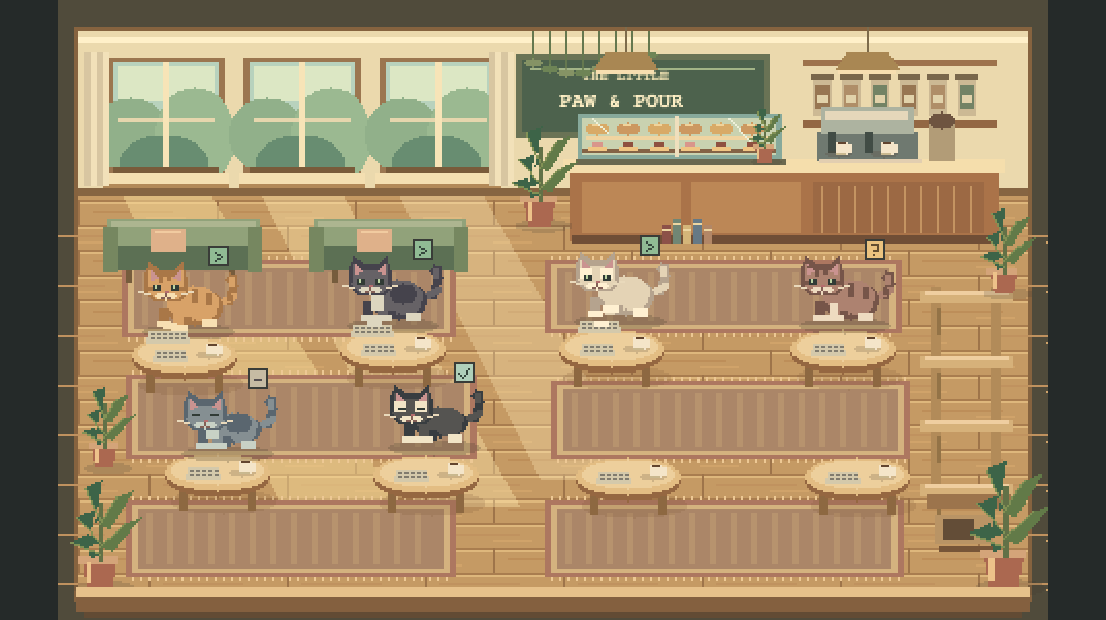
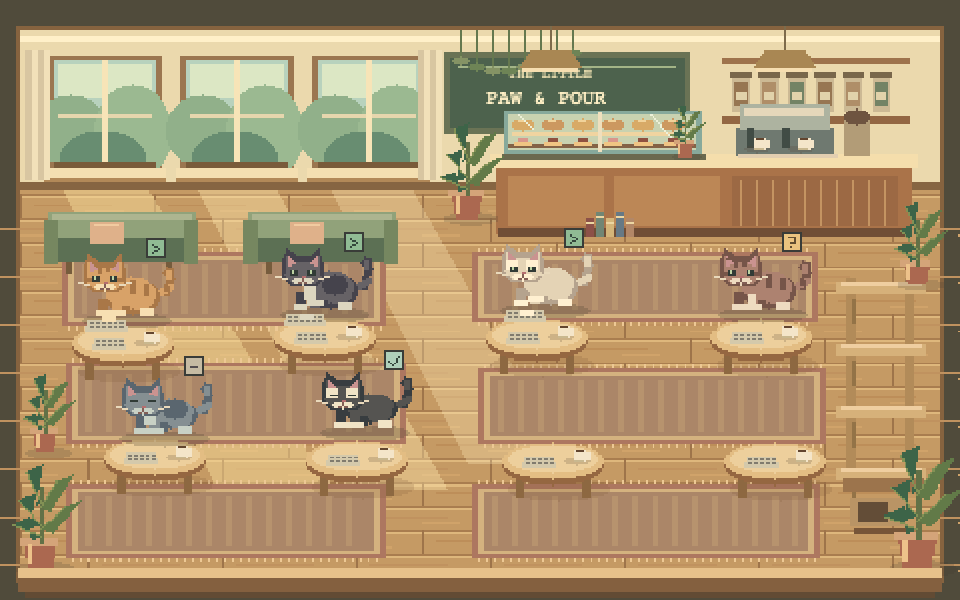
docs: refresh repo graphics with Bridge and Engineering feature

diff --git a/README.md b/README.md
@@ -2,9 +2,11 @@
 
 **Pixel-art places for your agents to inhabit.** A Hermes Desktop plugin with live-selectable realms, a shared agent-state engine, and a clean display for everyday use.
 
-![Office Space, Kitten Café and the TNG-inspired bridge, using demonstration agents](docs/images/starter-realms.png)
+![Office Space, Kitten Café and a split Bridge–Engineering feature graphic, using demonstration agents](docs/images/starter-realms.png)
 
 **Public alpha · v0.2.0** · **[Browse & download realms](realms/README.md)** · [Get the plugin](https://github.com/cygnostik/pd-pixel-worlds/releases) · [Create a realm](docs/realms.md) · [Submit a realm](https://github.com/cygnostik/pd-pixel-worlds/issues/new?template=realm-submission.yml)
+
+[![Checks](https://github.com/cygnostik/pd-pixel-worlds/actions/workflows/ci.yml/badge.svg)](https://github.com/cygnostik/pd-pixel-worlds/actions/workflows/ci.yml) · [Install](#install-in-hermes-desktop) · [Use it](#use-it) · [Create a realm](#create-and-share-realms) · [MIT](LICENSE)
 
 ## Three starter realms
 
@@ -17,6 +19,8 @@ neutral styling as the other world controls. They do not run commands or route
 real jobs. The published v0.2.0 download
 does not include this candidate yet.
 
+*Screenshots show the current main-branch build with demonstration agents, not live sessions.*
+
 | Realm | What lives there |
 | --- | --- |
 | **Office Space** | CRTs, cubicles, coffee and a printer yard. The printer teamwork scene follows actual parent-linked delegation. |
@@ -24,6 +28,17 @@ does not include this candidate yet.
 | **Star Trek: TNG** | A fan-inspired Enterprise-D bridge: luminous dome, aft stations, three command chairs, sweeping rail and two foreground helm consoles. |
 
 The starter artwork is drawn procedurally. Switching realms preserves identities, selection and attention reminders. Demo agents are explicitly labelled and never become live activity.
+
+### Two rooms. One crew.
+
+![Added: Main Engineering! Bridge on the left, Engineering on the right, joined by a blue transporter beam — promotional composite](docs/images/tng-ship-feature.png)
+
+The current TNG world connects the Bridge and Main Engineering. Crew placement,
+room counts and attention indicators stay shared when you switch views.
+
+| Bridge | Main Engineering |
+| --- | --- |
+| ![Current bridge with compact scene controls and demonstration crew](docs/images/tng-bridge.png) | ![Current Main Engineering with compact scene controls and demonstration crew](docs/images/tng-engineering.png) |
 
 ## Add a realm
 
@@ -70,7 +85,7 @@ profile argument. [Installation and compatibility details →](docs/install.md)
 - **Display mode** gives the realm the pane without the dashboard. Reveal the small controls with hover or keyboard focus; use **Exit display** or **Escape** to return.
 - Select an agent for details and native session navigation. Search includes session identifiers.
 - Pause animation or enable reduced motion. Scenes stop animating while hidden.
-- The roster keeps all observed agents. Office/café and imports use twelve-person scene pages; the candidate TNG ship has seven bridge, eight Engineering and two office stations, with separate elsewhere/transit/off-stage counts.
+- The roster keeps all observed agents. Office/café and imports use twelve-person scene pages; the candidate TNG ship has seven Bridge and eight Engineering stations, with separate elsewhere/transit/off-stage counts.
 
 ![PW Agents showing the TNG-inspired bridge with an explicitly illustrative crew](docs/images/pw-agents.png)
 
@@ -107,6 +122,17 @@ The build needs no Hermes checkout, private packages, credentials or local sourc
 aliases. The installed `plugin.js` imports React and `@hermes/plugin-sdk` from the
 host. The standalone preview bundles React with a small local SDK fixture.
 Browser tests start and stop their own loopback servers.
+
+To refresh the repository graphics from the current build:
+
+```sh
+npm run build
+node scripts/capture-repo-media.mjs
+```
+
+The capture uses the isolated browser preview and its demonstration crew. It
+refreshes the scene screenshots, README hero, catalog banner and social card
+without connecting to Hermes or reading live sessions. [Media details →](docs/media.md)
 
 ## Create and share realms
 

diff --git a/docs/media.md b/docs/media.md
@@ -1,0 +1,60 @@
+# Repository graphics
+
+Regenerate the graphics from the current application:
+
+```sh
+npm run build
+node scripts/capture-repo-media.mjs
+```
+
+The capture runs the isolated browser preview with reduced motion and the
+product's built-in demonstration crew. Network requests are restricted to that
+loopback preview. It does not connect to a Hermes gateway or load live sessions.
+
+## Outputs
+
+- `images/starter-realms.png`: README hero, 1440 × 720.
+- `images/catalog-banner.png`: catalog graphic, 1440 × 720.
+- `images/social-preview.png`: repository share card, 1280 × 640, under 1 MB.
+- `images/*-scene.png`: full scene artwork, 960 × 600, without interface chrome.
+- `images/tng-ship-feature.png`: promotional 50/50 Bridge–Engineering composite,
+  960 × 600, also used for the TNG card in the hero, catalog and social graphics.
+- Individual world screenshots, plus `display-mode.png` and `pw-agents.png`:
+  real application views with demonstration disclosures.
+
+The TNG screenshots show the current main-branch candidate. Tagged releases
+may contain earlier art. Imported TNG packages are static bridge scenes; the
+built-in ship also includes Main Engineering.
+
+## Treatment and attribution
+
+The editorial frame uses a dark field, warm white type, restrained amber and
+monospaced labels. Standalone scene captures remain unfiltered. Typography uses system
+Courier New and Arial fallbacks; no proprietary fonts or external brand marks
+are bundled. Pixel Worlds is a community Hermes plugin by ProDyn, not an
+official Nous Research product. Original art and third-party-property boundaries
+are described in [NOTICE.md](../NOTICE.md).
+
+### TNG feature composite
+
+`scripts/compose-tng-feature.mjs` uses the left half of the Bridge capture and
+the right half of Engineering without squeezing either room. A thin blue
+transporter beam covers the center seam, with a slight flare at each end.
+The exact supplied metallic title reads **Added: Main Engineering!**, with
+blue pixel-block decay around its edges. A localized bottom gradient and
+title shadow improve contrast. This is promotional artwork, not a live UI.
+
+The title and beam were supplied by Chris as `image_b45a0b.png` and
+`image_720182.png`. Their cropped, black-background-removed PNG derivatives
+are retained in `scripts/media-assets/`; they are supplied artwork rather
+than output of the procedural scene renderer. No font file is bundled.
+The title matte ramps from transparent at channel maximum 5 to opaque at 30;
+the beam uses brightness as alpha, with RGB unpremultiplied to preserve glow.
+
+The main capture script rebuilds the composite automatically. To recomposite
+existing scene captures only, run `node scripts/compose-tng-feature.mjs`.
+
+The script checks browser errors, image dimensions, layout collisions and the
+social-card size. Inspect the generated images before committing them. A file
+in this directory does not change GitHub's uploaded social-preview setting;
+that is a separate repository setting, not an automatic effect of a Git push.

diff --git a/realms/README.md b/realms/README.md
@@ -41,6 +41,11 @@ chairs, sweeping rail and two foreground helm stations.
 
 [Download TNG bridge](https://github.com/cygnostik/pd-pixel-worlds/releases/download/v0.2.0/pd-tng-bridge.pwrealm.json) · [Package source](pd-tng-bridge.pwrealm.json)
 
+The screenshot shows the refined main-branch bridge. The v0.2.0 release download
+contains the earlier artwork; [download the current bridge package](https://raw.githubusercontent.com/cygnostik/pd-pixel-worlds/main/realms/pd-tng-bridge.pwrealm.json)
+for the updated static scene. Main Engineering belongs to the built-in ship, not
+this data-only bridge package.
+
 See [NOTICE.md](../NOTICE.md) for third-party names and property rights. The MIT
 license does not grant franchise or trademark rights.
 
